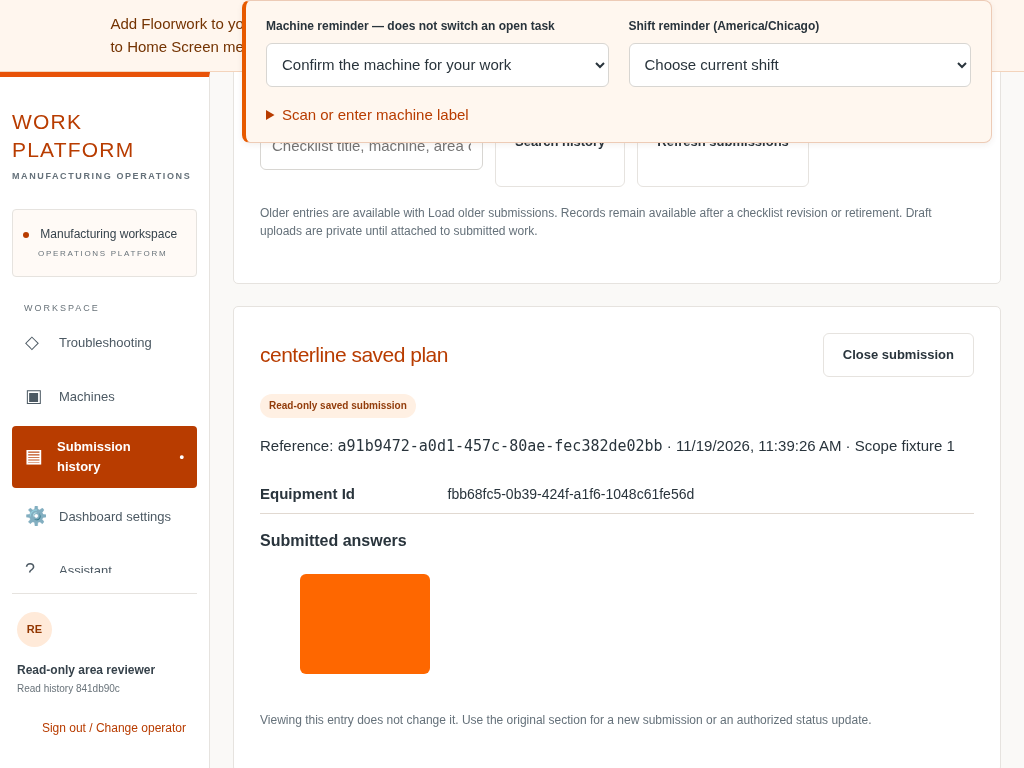
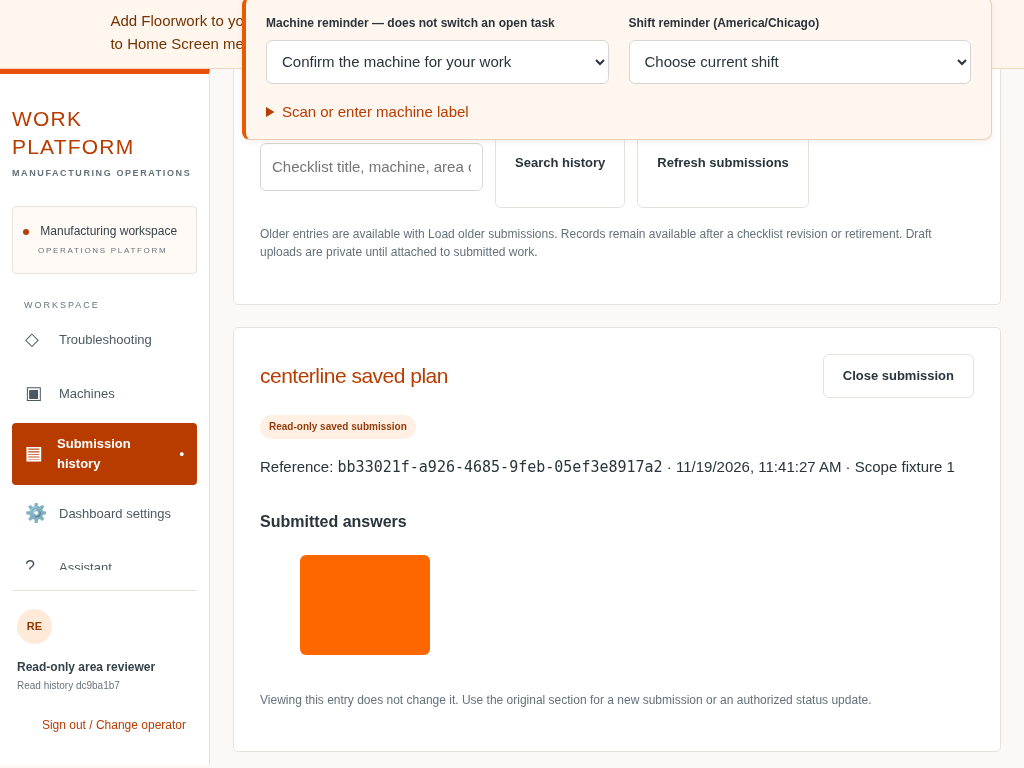
Keep saved details clear of sticky controls and internal field IDs

diff --git a/app/components/submission-detail.tsx b/app/components/submission-detail.tsx
@@ -120,6 +120,9 @@ export default function SubmissionDetail({
                 "id",
                 "planId",
                 "standardId",
+                "equipmentId",
+                "locationId",
+                "centerlineSnapshot",
                 "userId",
                 "createdAt",
               ].includes(k),

diff --git a/app/components/sections/submissions.tsx b/app/components/sections/submissions.tsx
@@ -188,7 +188,7 @@ export default function Submissions({ user }: { user: User }) {
         </p>
       )}
       {detail && (
-        <div ref={detailAnchor}>
+        <div ref={detailAnchor} style={{ scrollMarginTop: "12rem" }}>
           <SubmissionDetail
             key={detail.record.id}
             data={detail}
